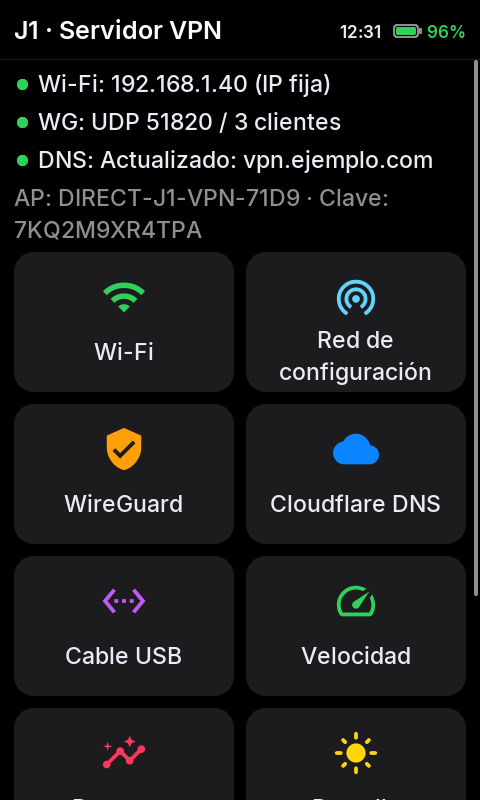
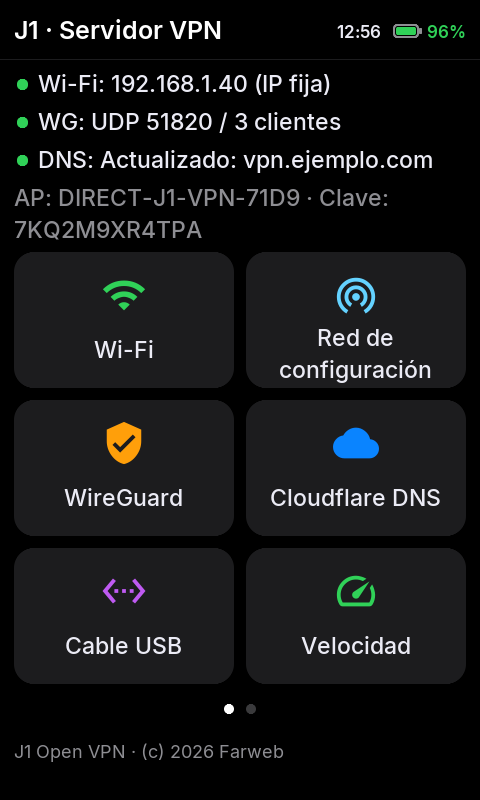
Home tiles in pages swiped sideways with page dots; drags redraw at ~60 fps

diff --git a/rootfs/display/j1-display.c b/rootfs/display/j1-display.c
@@ -162,12 +162,15 @@ static void icon(int x, int y, int n, uint32_t c) { icon_sz(x + 1, y + 1, n, 0, 
 static uint32_t icon_color(const char *name);
 
 /* ---- screen model ---- */
-struct el { char t, *a, *b, *c, *d; int y, h, dirty, col; char val[160]; };
+struct el { char t, *a, *b, *c, *d; int y, h, dirty, col, pg; char val[160]; };
 /* home tiles (C): two per row */
 #define TGAP 12
-#define TILE_H 140
+#define TILE_H 136
 static int tile_w(void) { return (SW - 2 * PAD - TGAP) / 2; }
-static int tile_x(const struct el *e) { return PAD + e->col * (tile_w() + TGAP); }
+/* the tiles go in pages swiped sideways; page_dx = finger offset while dragging */
+#define DOTS_H 30
+static int page, npages = 1, page_dx, tiles_y, tiles_h;
+static int tile_x(const struct el *e) { return PAD + e->col * (tile_w() + TGAP) + (e->pg - page) * SW + page_dx; }
 static struct el els[MAXEL];
 static int nel, content_h, scroll, refresh_s, idle_s = 60;
 static void set_deadline(void), set_bright(void);
@@ -194,12 +197,24 @@ static int qr_dims(const char *q, int *cols, int *rows) {
 }
 static void layout(void) {
 	int y = 8, w = SW - 2 * PAD;
+	npages = 1; tiles_h = 0;
 	for (int i = 0; i < nel; i++) {
-		struct el *e = &els[i]; e->y = y; e->h = 0; e->col = 0;
-		/* second tile of a row: same line as the first */
-		if (e->t == 'C' && i && els[i - 1].t == 'C' && !els[i - 1].col) { e->col = 1; e->y = els[i - 1].y; e->h = els[i - 1].h; continue; }
+		struct el *e = &els[i]; e->y = y; e->h = 0; e->col = e->pg = 0;
+		if (e->t == 'C') {   /* a run of tiles: as many rows as fit below, the rest on more pages */
+			int n = 0; while (i + n < nel && els[i + n].t == 'C') n++;
+			int rows = (SH - TOP - y - DOTS_H - 8) / (TILE_H + TGAP); if (rows < 1) rows = 1;
+			npages = (n + 2 * rows - 1) / (2 * rows);
+			if (npages == 1) rows = (n + 1) / 2;
+			for (int k = 0; k < n; k++) {
+				struct el *t = &els[i + k];
+				t->pg = k / (2 * rows); t->col = k % 2; t->y = y + (k % (2 * rows)) / 2 * (TILE_H + TGAP); t->h = TILE_H + TGAP;
+			}
+			tiles_y = y; tiles_h = rows * (TILE_H + TGAP);
+			y += tiles_h + (npages > 1 ? DOTS_H : 0); i += n - 1;
+			if (page >= npages) page = npages - 1;
+			continue;
+		}
 		switch (e->t) {
-		case 'C': e->h = TILE_H + TGAP; break;
 		case 'M': e->h = wrap(e->a, 0, 0, w - 16, 2, 0, 0) + 20; break;
 		case 'L': { char k = e->b ? *e->b : 'n'; int dot = k == 'g' || k == 'y' || k == 'r';   /* same width as when drawn */
 			e->h = wrap(e->a, 0, 0, dot ? w - 26 : w, 2, 0, 0) + 6; break; }
@@ -256,7 +271,7 @@ static void parse(int keep_dirty) {
 		p = nl + 1;
 	}
 	int same = !strcmp(old, screen_id);
-	if (!same) scroll = 0;
+	if (!same) scroll = page = page_dx = 0;
 	if (same && keep_dirty)
 		for (int i = 0; i < nel; i++) if (els[i].t == 'F')
 			for (int k = 0; k < nk; k++) if (!strcmp(kn[k], els[i].a)) { snprintf(els[i].val, sizeof els[i].val, "%.159s", kv[k]); els[i].dirty = 1; }
@@ -419,11 +434,12 @@ static void render(void) {
 			break; }
 		case 'C': {   /* home tile: colored icon over its name */
 			int x = tile_x(e), tw0 = tile_w(), ic = icon_id(e->c);
+			if (x >= SW || x + tw0 <= 0) break;   /* on another page */
 			rrect(x, y, tw0, TILE_H, 20, i == pressed ? C_DOWN : C_ITM);
-			if (ic >= 0) icon_sz(x + (tw0 - 46) / 2, y + 22, ic, 1, icon_color(e->c));
+			if (ic >= 0) icon_sz(x + (tw0 - 46) / 2, y + 20, ic, 1, icon_color(e->c));
 			const char *s = e->b ? e->b : "";
 			int lines = wrap2(s, 0, 0, tw0 - 20, 2, 0, 0, 1) / LINE(2);
-			wrap2(s, x + 10, y + (lines > 1 ? 72 : 84), tw0 - 20, 2, C_TXT, 1, 1);
+			wrap2(s, x + 10, y + (lines > 1 ? 70 : 82), tw0 - 20, 2, C_TXT, 1, 1);
 			break; }
 		case 'B': {
 			char st = e->c ? *e->c : 'n'; uint32_t bg = st == 'p' ? C_ACC : st == 'd' ? C_DNGB : st == 'i' ? C_ITM : C_BTN;
@@ -482,6 +498,10 @@ static void render(void) {
 			}
 			break; }
 		}
+	}
+	if (npages > 1) {   /* page dots under the tiles */
+		int dy = TOP + tiles_y + tiles_h - scroll + 8, dx = SW / 2 - (npages * 22 - 12) / 2;
+		for (int p = 0; p < npages; p++) rrect(dx + p * 22, dy, 10, 10, 5, p == page ? C_WHITE : C_KEY);
 	}
 	clip0 = 0; clip1 = SH;
 	/* scroll hint */
@@ -623,6 +643,10 @@ static void wake(void) {
 static int evkey = -1, evtouch = -1;
 static int t_slot, t_id = -1, t_x, t_y, t_down, t_x0, t_y0, t_scroll0, dragging, ignore;
 static double last_drag_render;
+/* while a finger drags: a new frame at most every 16 ms (~60 per second) */
+#define FRAME 0.016
+static void frame(void) { if (now() - last_drag_render > FRAME) { render(); last_drag_render = now(); } }
+static int hdrag;   /* sideways drag of the tile pages */
 static int hit(int x, int y) {
 	if (y < TOP) return (back[0] && x < 80) ? -2 : -1;
 	if (y >= TOP + view_h()) return -1;
@@ -678,12 +702,12 @@ static void slide(int x) {
 	int v = lo + (x - x0) * (hi - lo) / (x1 - x0); if (v < lo) v = lo; if (v > hi) v = hi;
 	snprintf(e->val, sizeof e->val, "%d", v);
 	if (!strcmp(e->a, "disp.bright") && v != bright) { bright = v; set_bright(); }
-	if (now() - last_drag_render > 0.04) { render(); last_drag_render = now(); }
+	frame();
 }
 static void touch_down(int x, int y) {
 	if (debug) fprintf(stderr, "%.3f dedo %d,%d%s\n", now(), x, y, shown ? "" : " (despierta)");
 	if (!shown) { ignore = 1; wake(); return; }
-	poke(); t_x0 = x; t_y0 = y; t_scroll0 = scroll; dragging = 0; t_maxd = 0; t_time0 = now();
+	poke(); t_x0 = x; t_y0 = y; t_scroll0 = scroll; dragging = hdrag = 0; t_maxd = 0; t_time0 = now();
 	/* locked: only a drag that starts on the knob counts */
 	if (locked) { lock_drag = y > lock_y() - 30 && y < lock_y() + LK_H + 30 && x < PAD + 4 + LK_K + 40; lock_x = 0; return; }
 	if (kb_open && y >= KBY - PVH) { kb_down = kb_hit(x, y); pressed = t_el = -1; }
@@ -697,15 +721,23 @@ static void touch_move(int x, int y) {
 	if (locked) {
 		if (!lock_drag) return;
 		lock_x = x - t_x0; if (lock_x < 0) lock_x = 0; if (lock_x > lock_range()) lock_x = lock_range();
-		if (now() - last_drag_render > 0.04) { render(); last_drag_render = now(); }
+		frame();
 		return;
 	}
 	if (kb_open && t_y0 >= KBY - PVH) return;
 	if (sliding()) { slide(x); return; }
+	/* sideways on the tiles: change page */
+	int ty = t_y0 - TOP + scroll, on_tiles = npages > 1 && !kb_open && ty >= tiles_y && ty < tiles_y + tiles_h + DOTS_H;
+	if (!dragging && !hdrag && on_tiles && abs(x - t_x0) > 24 && abs(x - t_x0) > abs(y - t_y0)) { hdrag = 1; pressed = -1; }
+	if (hdrag) {
+		page_dx = x - t_x0;
+		if ((page == 0 && page_dx > 0) || (page == npages - 1 && page_dx < 0)) page_dx /= 3;   /* no more pages: it resists */
+		frame(); return;
+	}
 	if (!dragging && abs(y - t_y0) > 32 && content_h > view_h()) { dragging = 1; pressed = -1; }
 	if (dragging) {
 		scroll = t_scroll0 - (y - t_y0); clamp_scroll();
-		if (now() - last_drag_render > 0.04) { render(); last_drag_render = now(); }
+		frame();
 	}
 }
 static void touch_up(int x, int y) {
@@ -725,6 +757,18 @@ static void touch_up(int x, int y) {
 	if (sliding()) {
 		char a[200]; struct el *e = &els[t_el]; snprintf(a, sizeof a, "%s:%s", e->a, e->val);
 		t_el = -1; kb_open = 0; send_action(a, 0); return;
+	}
+	if (hdrag) {   /* past a fifth of the width, or a quick flick: next page; then it slides into place */
+		int quick = dur < 0.25 && abs(page_dx) > 40;
+		int dir = page_dx < -SW / 5 || (quick && page_dx < 0) ? 1 : page_dx > SW / 5 || (quick && page_dx > 0) ? -1 : 0;
+		if (page + dir < 0 || page + dir >= npages) dir = 0;
+		page += dir; hdrag = 0;
+		int off = page_dx + dir * SW;   /* same picture, counted from the new page */
+		double t0 = now(), len = 0.18;
+		for (double p = 0; p < 1; p = (now() - t0) / len) { page_dx = (int)(off * (1 - p) * (1 - p)); render(); }
+		page_dx = 0; render();
+		if (debug) fprintf(stderr, "%.3f pagina %d de %d\n", now(), page + 1, npages);
+		return;
 	}
 	int tap = t_maxd < TAP_MOVE && dur < TAP_TIME;
 	if (dragging && !tap) {
@@ -776,7 +820,7 @@ static void key(int c) {
 	if (c == KEY_VOLUMEUP) { scroll -= 300; clamp_scroll(); render(); }
 	else if (c == KEY_VOLUMEDOWN) { scroll += 300; clamp_scroll(); render(); }
 	else if (c == KEY_HOME) { kb_open = 0; send_action("nav:home", 0); }
-	else if (c == KEY_BACK) { if (kb_open) { kb_open = 0; render(); } else if (back[0]) send_action(back, 0); }
+	else if (c == KEY_BACK) { if (kb_open) { kb_open = 0; render(); } else if (back[0]) send_action(back, 0); else if (page) { page = 0; render(); } }
 	else if (c == KEY_RECENTS) { kb_open = 0; send_action("nav:res", 0); }
 }
 static void touch_events(int act) {

diff --git a/docs/uso.md b/docs/uso.md
@@ -8,6 +8,7 @@
 | Desbloquear | Arrastrar el círculo de *Desliza para desbloquear* hasta el final (con la pantalla de bloqueo activada) |
 | Apagarla | Botón de encendido (pulsación corta) o sola al pasar el tiempo elegido |
 | Apagar o reiniciar el J1 | Mantener el botón de encendido 1,5 s → *Apagar* / *Reiniciar* |
+| Cambiar de página en el inicio | Deslizar las baldosas a izquierda o derecha (los puntos indican la página); *Atrás* vuelve a la primera |
 | Desplazar | Arrastrar, o Volumen +/− |
 | Volver | Flecha arriba a la izquierda, o tecla táctil *Atrás* |
 | Inicio | Botón Home |
